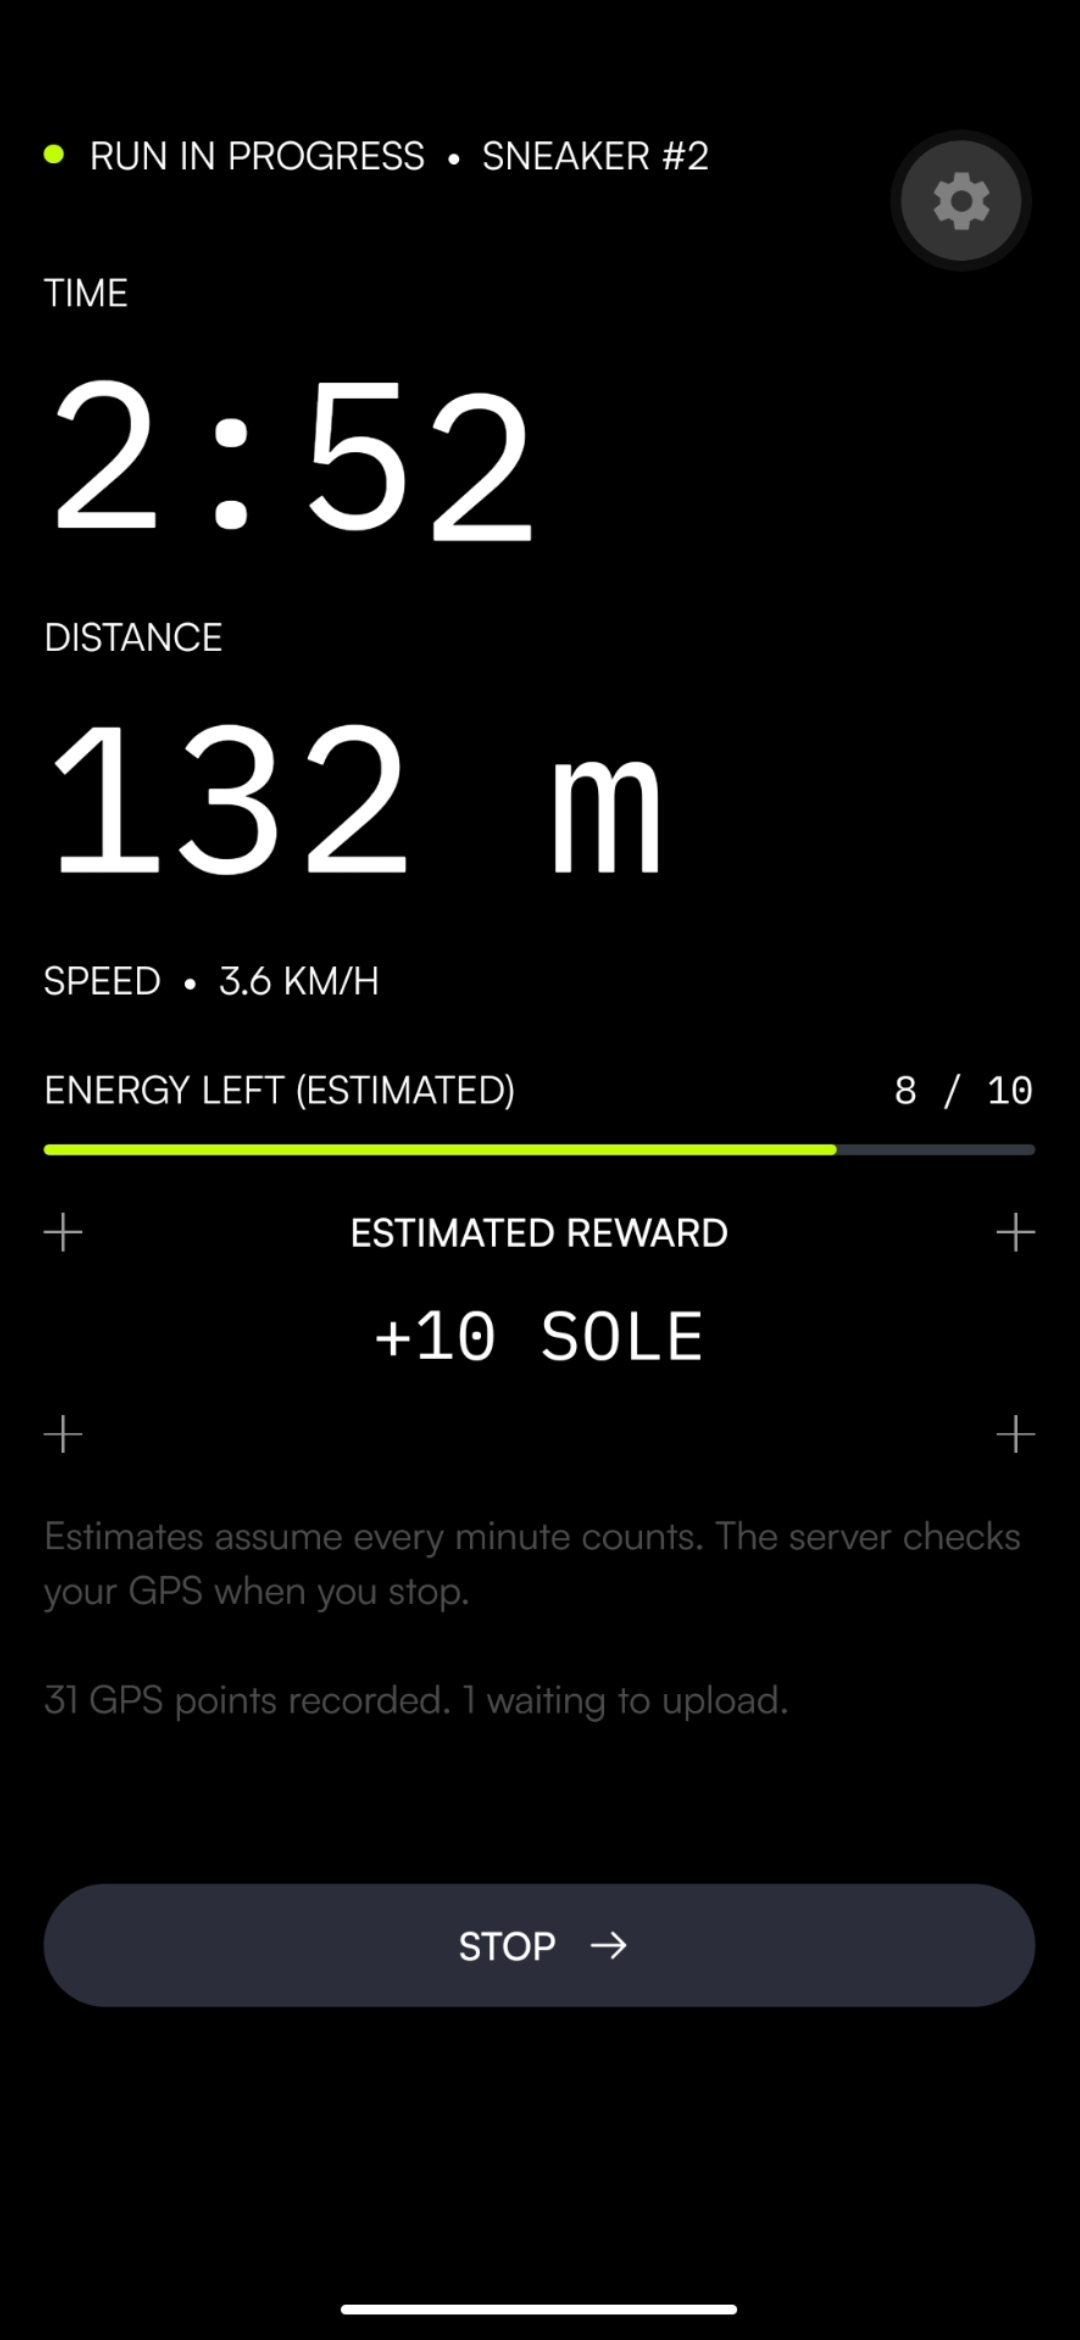
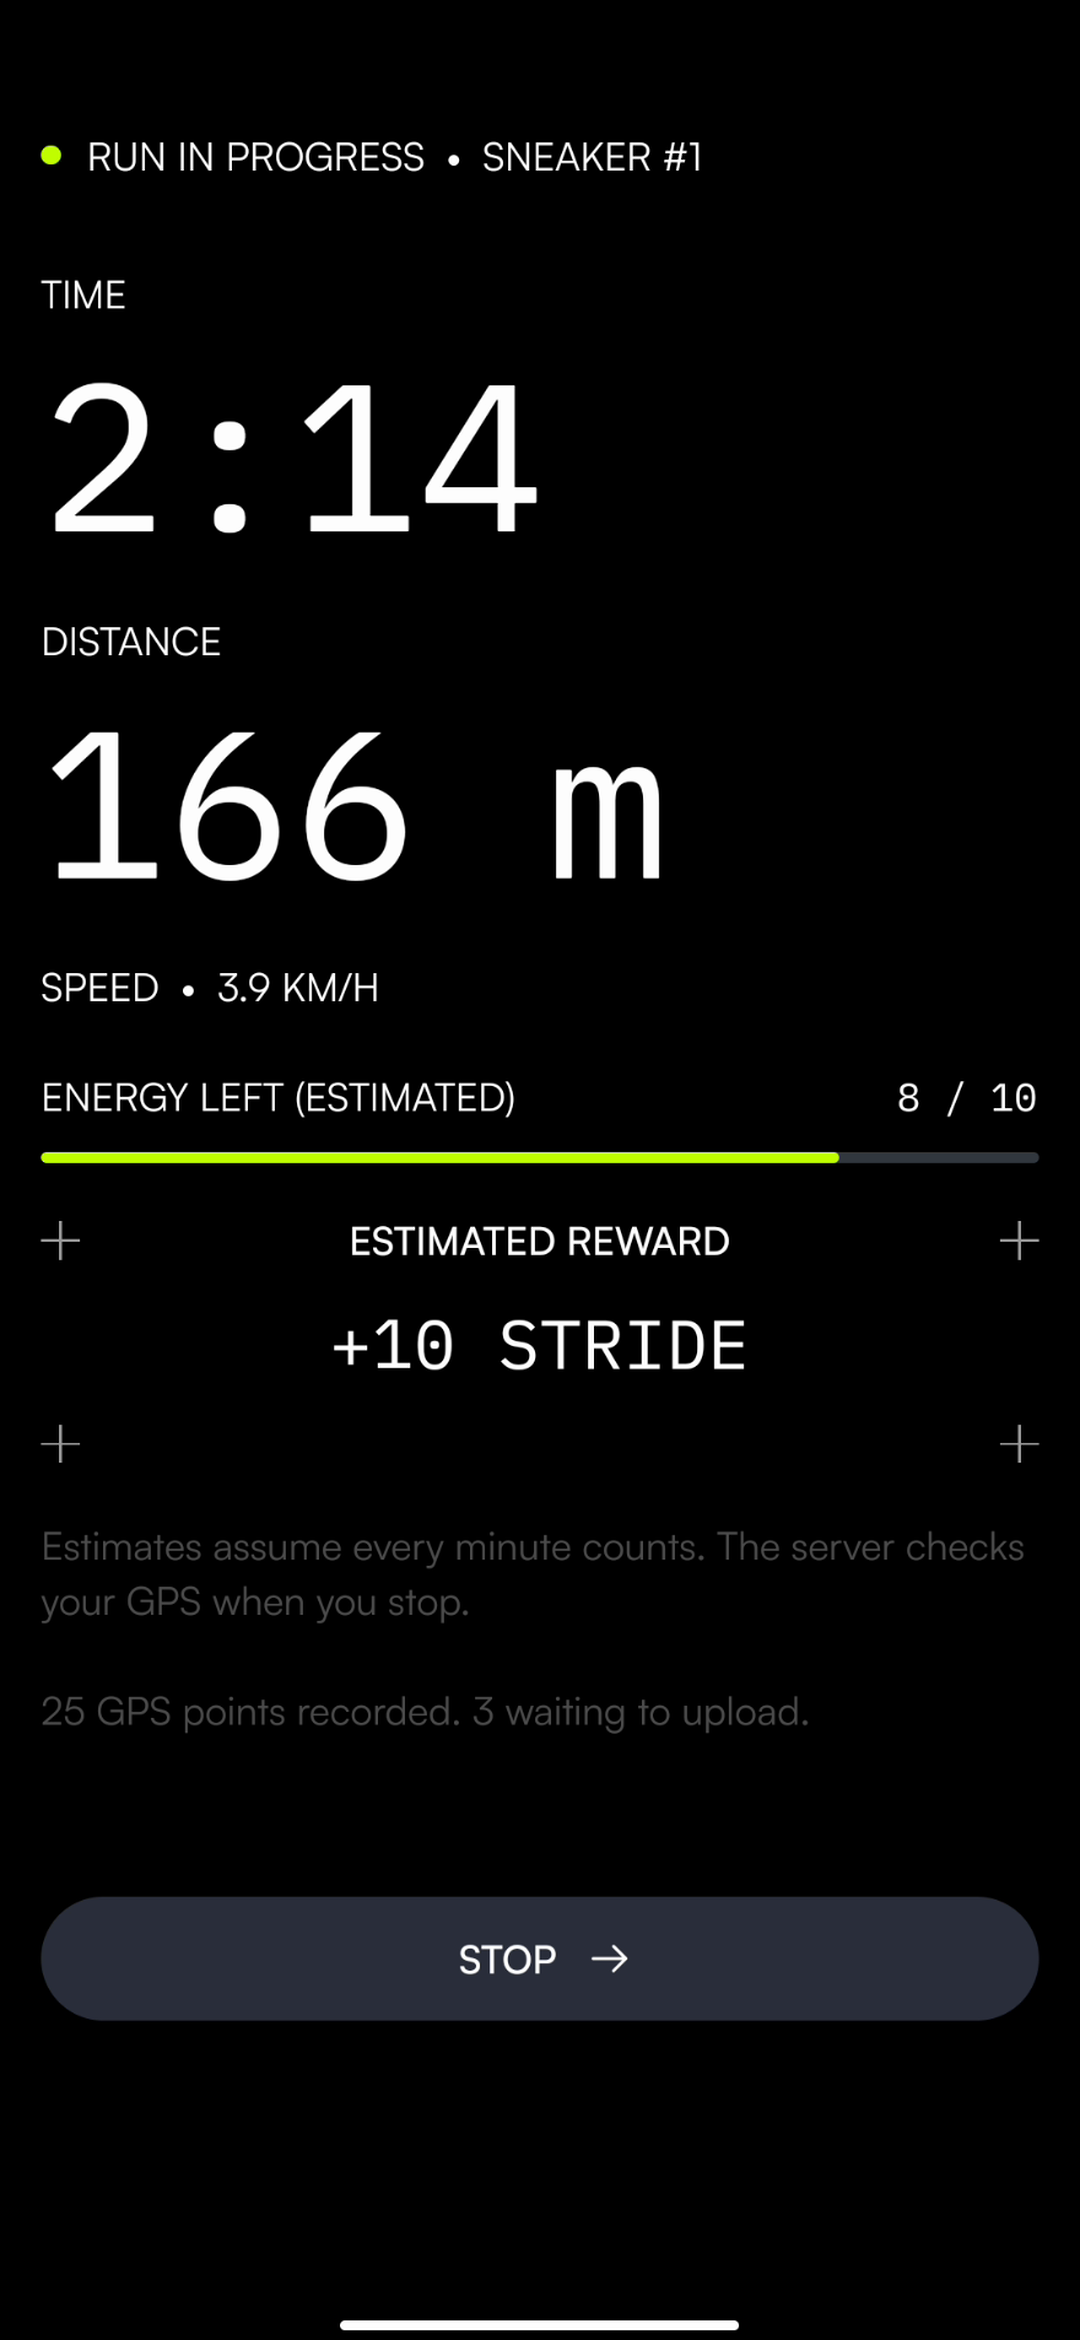
chore: Update screenshots

diff --git a/website/src/content/screenshots.ts b/website/src/content/screenshots.ts
@@ -1,5 +1,6 @@
 // Android screenshots from the demo build, 1080 × 2340, in public/screenshots/. Status bars are
-// painted out, and the two long scrolling captures (Home, Sneaker tab) are cut to one screen.
+// painted out. Retaken for STRIDE (2026-10-07): 03 and 05 are frames from the demo recording
+// (media-source/video3.mp4), Home is cut from a long scrolling capture to one screen.
 // The build fails if a file listed here is missing.
 export const screenshotWidthPixels = 1080
 export const screenshotHeightPixels = 2340
@@ -16,23 +17,23 @@ export const screenshots = {
   },
   home: {
     fileName: '02-home.png',
-    alt: 'StrideMon Home screen: Sneaker #0002’s on-chain picture at level 2, efficiency 12, energy 1 of 10 with the next point in 26 minutes, and a balance of 84.6 STRIDE.',
+    alt: 'StrideMon Home screen: Sneaker #0002’s on-chain picture at level 1 with durability 99, efficiency 10, energy 7 of 10 with the next point in 27 minutes, and a balance of 30 STRIDE.',
   },
   activeRun: {
     fileName: '03-active-run.png',
-    alt: 'Active run screen on black: 2:52 elapsed, 132 m walked at 3.6 km/h, 8 of 10 energy left, an estimated reward of 10 STRIDE, and a STOP button.',
+    alt: 'Active run screen on black: 2:14 elapsed, 166 m walked at 3.9 km/h, 8 of 10 energy left, an estimated reward of 10 STRIDE, and a STOP button.',
   },
   runSummary: {
     fileName: '04-run-summary.png',
-    alt: 'Run summary: 10 STRIDE earned and settled, 2 rewarded minutes, 1 durability lost, a link to the transaction, and the run’s duration, distance and average speed.',
+    alt: 'Run summary: 15 STRIDE earned and settled, 3 rewarded minutes, 1 durability lost, a link to the transaction, and the run’s 3:27 duration, 197 m distance and 3.9 km/h average speed.',
   },
   sneakerTab: {
     fileName: '05-sneaker-tab.png',
-    alt: 'Sneaker tab: repair from durability 96 to 100 for 3.2 STRIDE, and upgrade from level 2 to 3, efficiency 12 to 14, for 100 STRIDE.',
+    alt: 'Sneaker tab: repair from durability 99 to 100 for 0.7 STRIDE, and upgrade from level 1 to 2, efficiency 10 to 12, for 50 STRIDE, not yet affordable with 15 STRIDE.',
   },
   repairReview: {
     fileName: '06-repair-review.png',
-    alt: 'Review sheet before a repair: durability 94 to 100 for 4.8 STRIDE, with Confirm in wallet and Not now buttons.',
+    alt: 'Review sheet before a repair: durability 98 to 100, the STRIDE balance going from 45 to 43.6, with Confirm in wallet and Not now buttons.',
   },
   transfer: {
     fileName: '07-transfer.png',
@@ -40,6 +41,6 @@ export const screenshots = {
   },
   explorerNft: {
     fileName: '09-explorer-nft.png',
-    alt: 'MonadVision explorer page for a StrideMon Sneaker NFT (ERC-721), showing the same on-chain picture as the app.',
+    alt: 'MonadVision explorer page for StrideMon Sneaker #0002 (ERC-721), showing the same on-chain picture as the app.',
   },
 } as const satisfies Record<string, Screenshot>

diff --git a/website/src/app/layout.tsx b/website/src/app/layout.tsx
@@ -1,5 +1,5 @@
-import type { Metadata, Viewport } from 'next'
 import { Analytics } from '@vercel/analytics/next'
+import type { Metadata, Viewport } from 'next'
 import { IBM_Plex_Mono } from 'next/font/google'
 import type { ReactNode } from 'react'
 import { preload } from 'react-dom'
